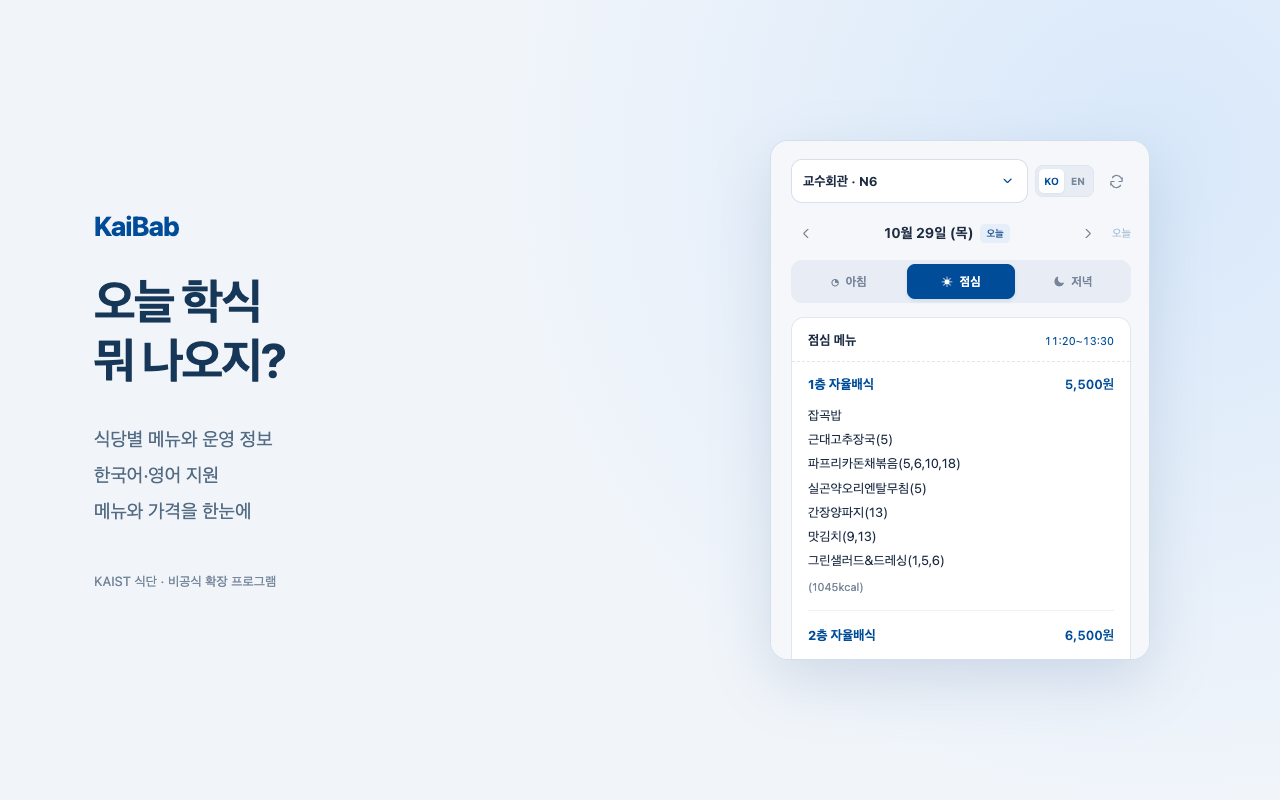
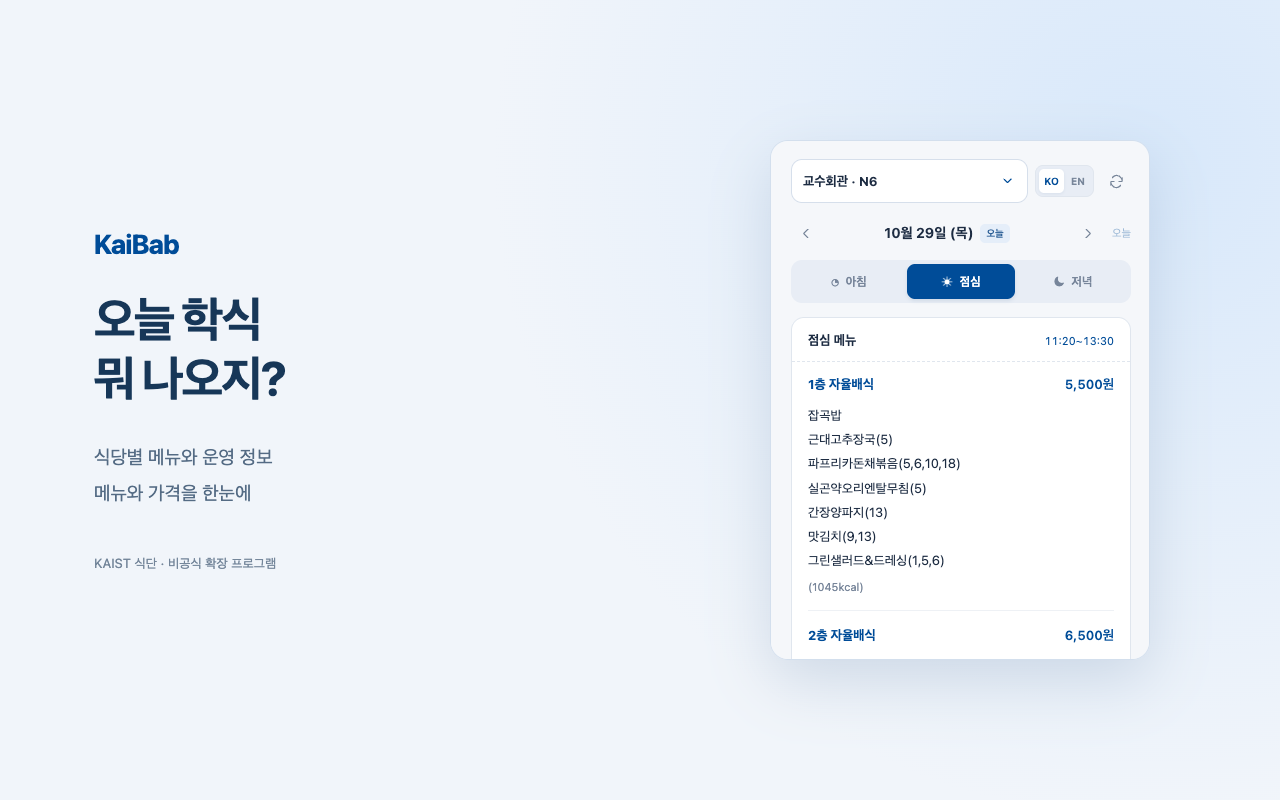
Polish Korean README and simplify screenshot captions

Changed region(s): [[0.0625, 0.25, 0.2188, 0.5], [0.0625, 0.5312, 0.2188, 0.6562], [0.0625, 0.6875, 0.2188, 0.75]]

diff --git a/README.ko.md b/README.ko.md
@@ -8,35 +8,35 @@
 
 ![KaiBab 팝업](store/assets/screenshot-ko-1280x800.png)
 
-## 기능
+## 사용 방법
 
-- 식당 12곳의 메뉴와 운영 정보
-- 날짜 및 아침·점심·저녁 선택
-- 한국어·영어 지원
-- 메뉴 코너 옆 가격 표시
-- 마지막 식당·언어 선택 저장
-- 연결이 끊겨도 최근 식단 확인, 저장된 메뉴임을 표시
+아이콘을 누르고 식당을 선택하면 메뉴와 가격을 볼 수 있습니다. 날짜와 아침·점심·저녁을 바꿔가며 식단을 확인하세요.
+
+- 식당 12곳의 식단과 운영 정보를 제공합니다.
+- KO / EN 버튼으로 한국어와 영어를 전환할 수 있습니다.
+- 마지막으로 선택한 식당과 언어는 다음에 열 때도 유지됩니다.
+- 인터넷 연결이 끊기면 최근에 불러온 식단을 보여주고, 저장된 메뉴라는 안내를 표시합니다.
 
 ## 설치
 
-Chrome 웹 스토어 등록 전. 아래 순서로 직접 설치.
+아직 Chrome 웹 스토어에 등록되지 않아 직접 설치해야 합니다.
 
-1. Code → Download ZIP 선택 후 압축 해제
-2. Chrome 주소창에 chrome://extensions 입력
-3. 개발자 모드 켜기
-4. 압축해제된 확장 프로그램을 로드합니다 선택 후 프로젝트 안의 extension 폴더 선택
-5. 도구 모음에 KaiBab 고정 후 아이콘 클릭
+1. 저장소 상단의 Code → Download ZIP을 눌러 다운로드한 뒤 압축을 풉니다.
+2. Chrome 주소창에 chrome://extensions를 입력합니다.
+3. 오른쪽 위의 개발자 모드를 켭니다.
+4. ‘압축해제된 확장 프로그램을 로드합니다’를 누르고, 압축을 푼 폴더 안에서 extension 폴더를 선택합니다.
+5. 도구 모음에 KaiBab을 고정하면 아이콘을 눌러 바로 사용할 수 있습니다.
 
-폴더를 옮긴 경우 새 위치에서 다시 불러오기.
+설치한 폴더를 옮겼다면 새 위치의 extension 폴더를 다시 불러와 주세요.
 
 ## 개인정보
 
-식당·언어 설정과 최근 식단은 Chrome에 로컬 저장. 광고·분석 도구·개발자 수집 서버 없음.
+선택한 식당과 언어, 최근에 불러온 식단은 브라우저에만 저장됩니다. 광고나 분석 도구는 사용하지 않으며, 이 정보를 수집하는 별도 서버도 없습니다.
 
-식단 요청은 KAIST로 직접 전송되며, IP 주소 등 접속 정보가 KAIST에 전달됨. 자세한 내용은 [개인정보처리방침](https://legojeon.github.io/kaibab/privacy.html) 참고.
+식단을 불러올 때는 KAIST 홈페이지에 직접 접속하므로 IP 주소 등 일반적인 접속 정보가 KAIST에 전달됩니다. 자세한 내용은 [개인정보처리방침](https://legojeon.github.io/kaibab/privacy.html)에서 확인할 수 있습니다.
 
 ## 출처
 
-[KAIST 공식 식단 페이지](https://www.kaist.ac.kr/kr/html/campus/053001.html?dvs_cd=emp)
+식단 정보는 [KAIST 공식 식단 페이지](https://www.kaist.ac.kr/kr/html/campus/053001.html?dvs_cd=emp)에서 가져옵니다. 메뉴와 운영 시간, 가격은 식당 사정에 따라 달라질 수 있습니다.
 
-KAIST와 제휴하거나 학교의 제작·보증을 받지 않은 비공식 확장 프로그램. 메뉴·시간·가격은 식당 사정에 따라 변경 가능.
+KaiBab은 개인이 만든 비공식 확장 프로그램으로, KAIST와 제휴하거나 학교의 승인을 받은 서비스는 아닙니다.
